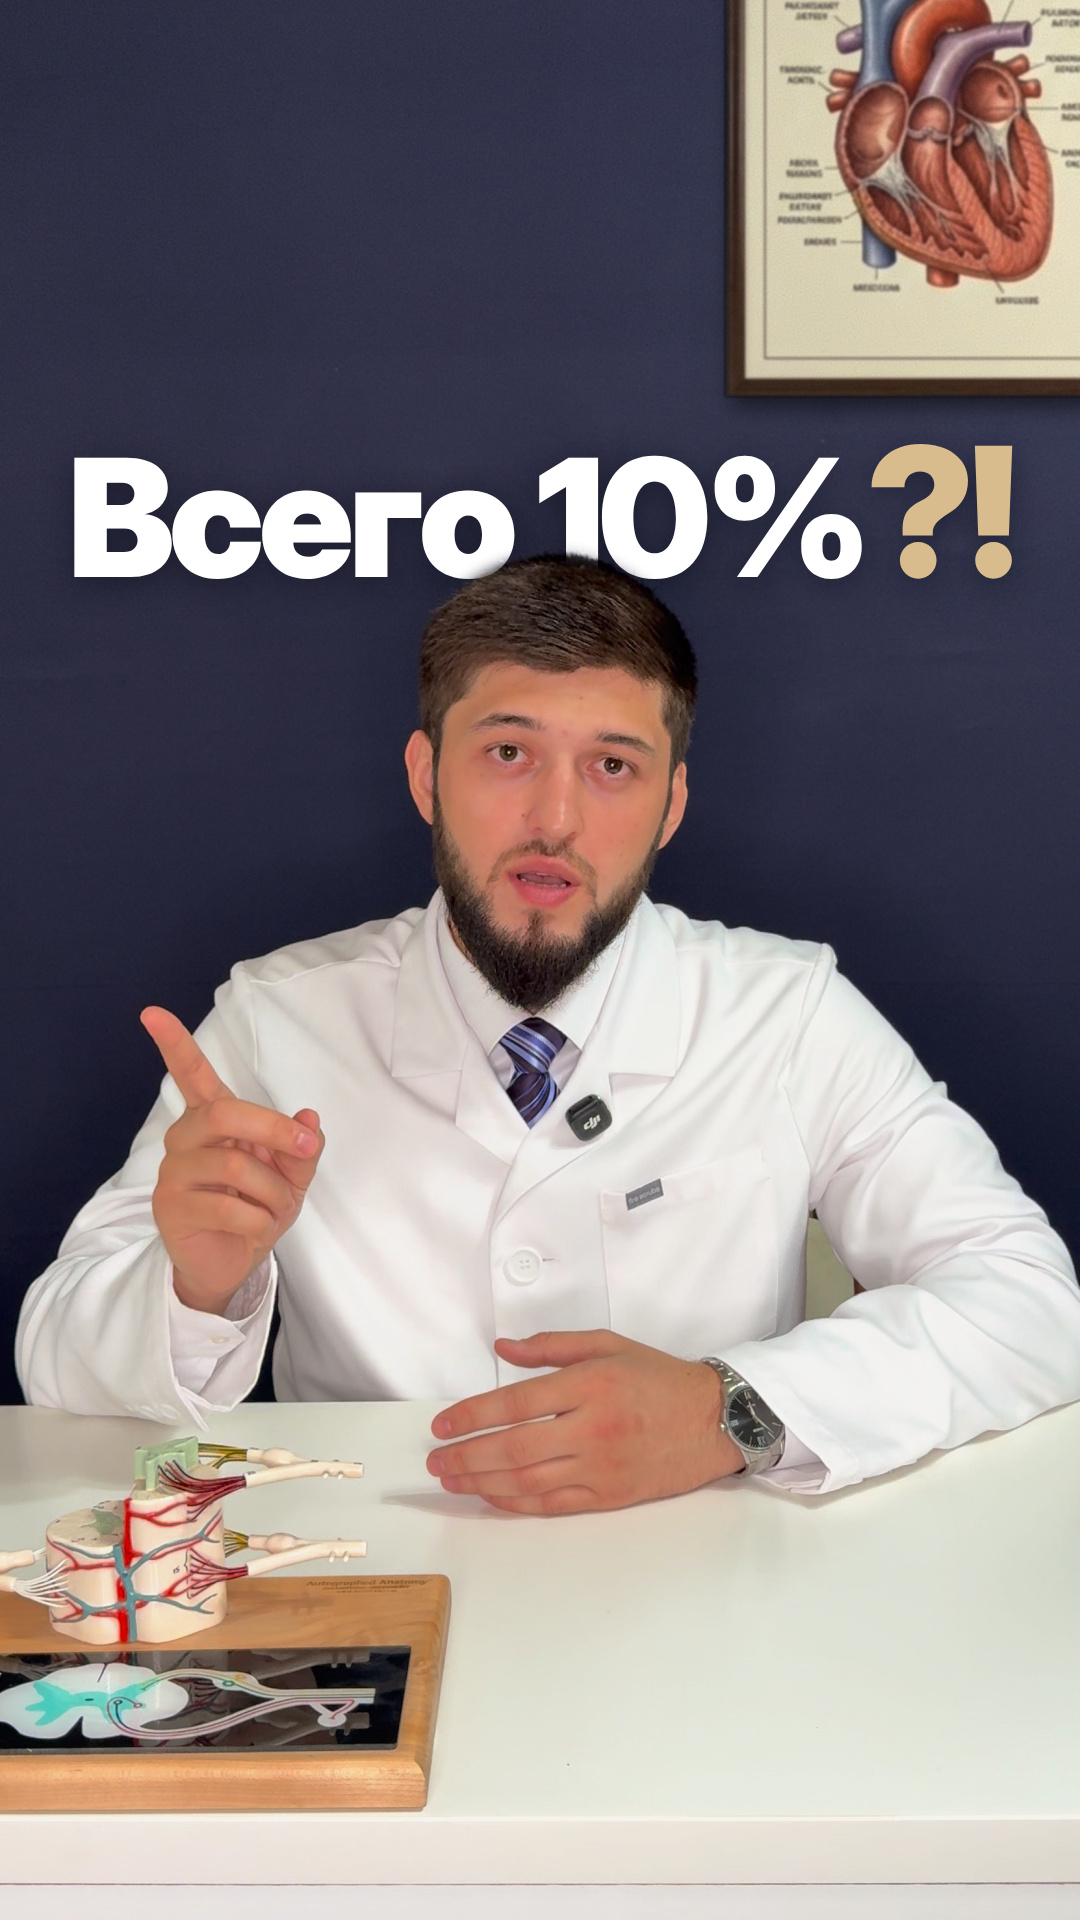
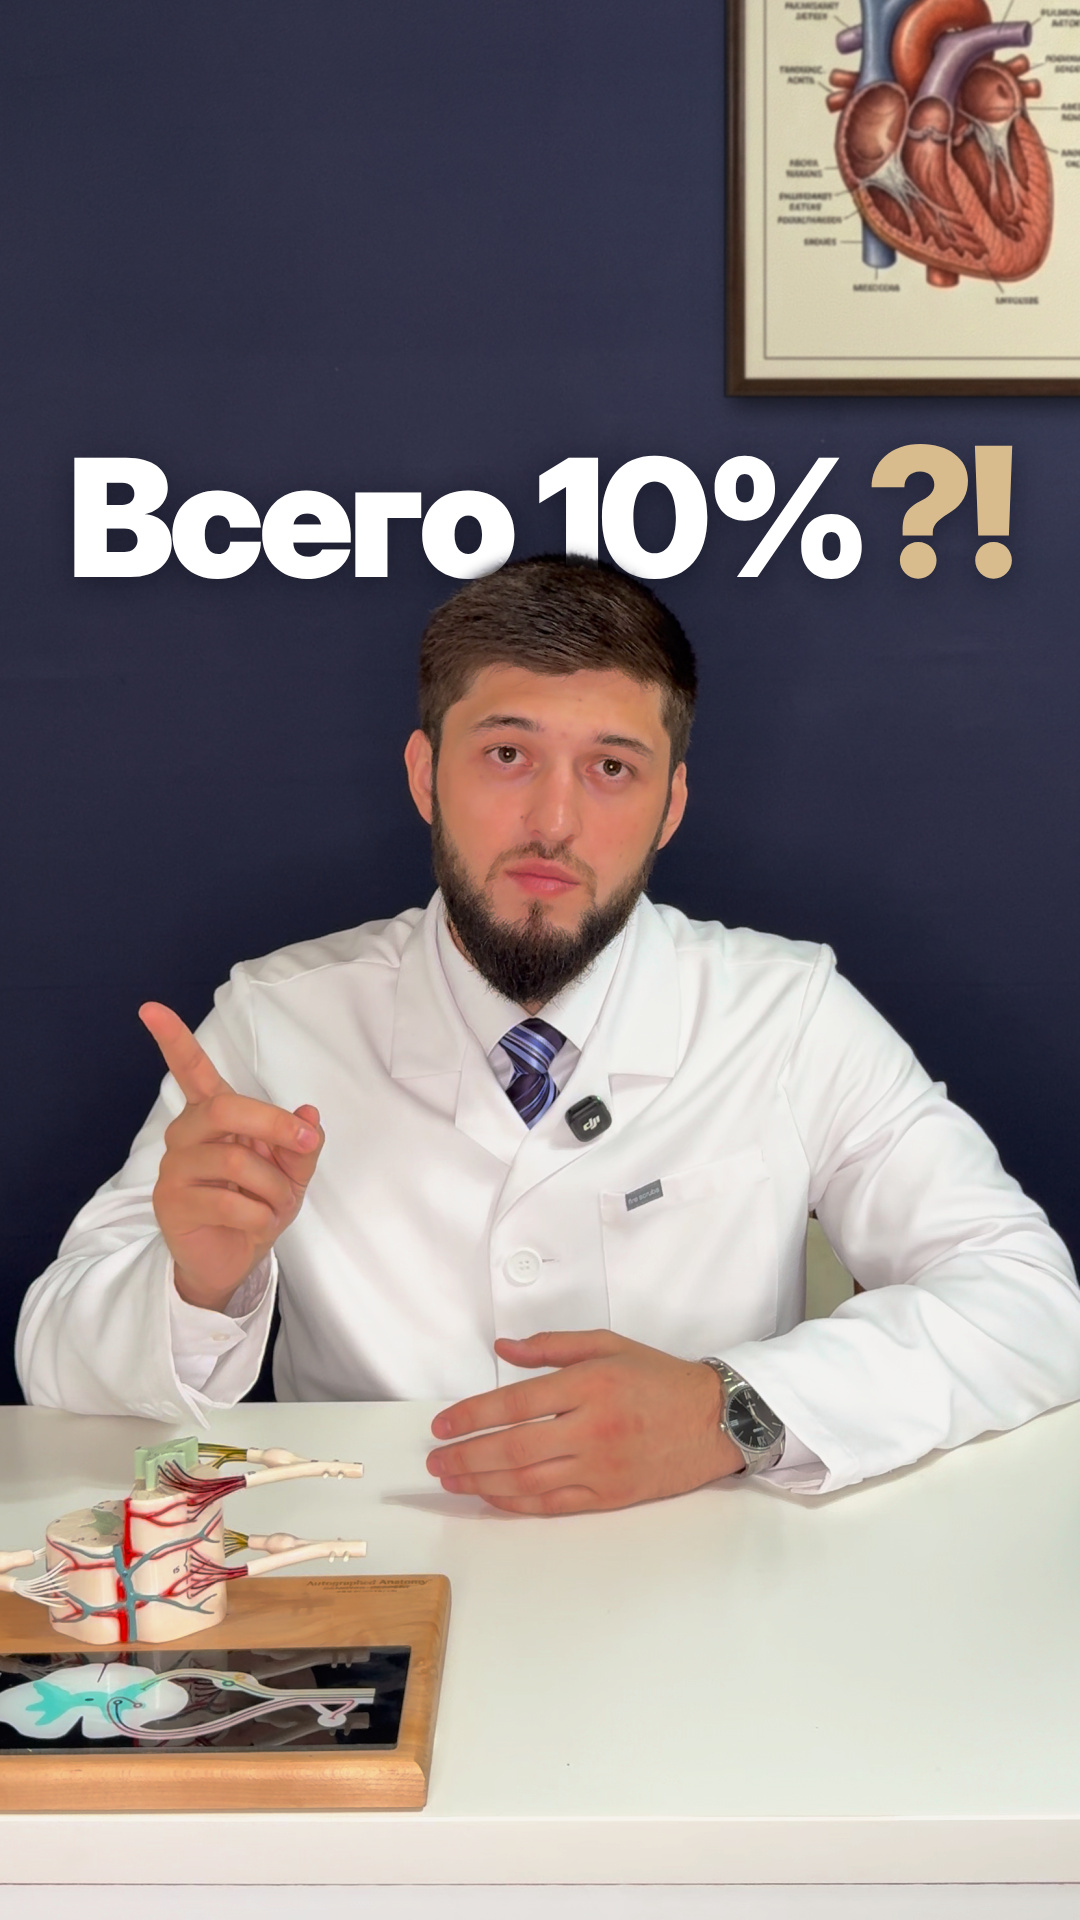
Reel 2 covers 16–20: use the client's frame (99.70 s, mouth closed)
The one-line "Всего 10%?!" covers were built on the 99.80 s frame, where the
mouth is already open. They now use the frame from the client's screenshot,
found by matching face and hand contours against it in the 4K source
(base_frame.py --ref); the matte script takes the frame time from the base
folder. Covers 1–15 keep their original base. The layout QC now treats only
the largest bright component as the poster, so stray hair pixels at the
matte edge no longer count as poster.

Claude-Session: https://claude.ai/code/session_01CUeAeRhq8HGUP8vv7VWuP4

diff --git a/doctor-intro-reels/reel_2/covers/cover.html b/doctor-intro-reels/reel_2/covers/cover.html
@@ -103,24 +103,26 @@ const V = {
   15: { z: "a", front: `
       <div class="t inter" style="left:80px; top:340px; font-weight:600; font-size:96px; color:var(--soft)">Для чего</div>
       <div class="t inter" style="left:74px; top:450px; font-weight:800; font-size:104px; letter-spacing:-3px">этот блог<span class="acc" style="font-size:130px">?</span></div>` },
-  // «Всего 10%?!» в одну строку. data-w — ширина строки (кегль подбирается), data-center — по центру.
-  16: { z: "c", person: true, behind: `
+  // «Всего 10%?!» в одну строку, кадр со скриншота заказчика (base2: 99,70 с, рот закрыт).
+  // data-w — ширина строки (кегль подбирается), data-center — по центру.
+  16: { z: "c", base: "base2", person: true, behind: `
       <div class="t inter" data-w="944" data-center style="top:421px; font-weight:900; font-size:170px; letter-spacing:-.035em">Всего 10%<span class="acc" style="font-size:1.1em">?!</span></div>` },
-  17: { z: "b", front: `
+  17: { z: "b", base: "base2", front: `
       <div class="t unb" data-w="944" data-center style="top:438px; font-weight:900; font-size:110px; letter-spacing:-.02em">Всего 10%<span class="acc">?!</span></div>` },
-  18: { z: "b", person: true, behind: `
+  18: { z: "b", base: "base2", person: true, behind: `
       <div class="t osw" data-w="944" data-center style="top:432px; font-weight:700; font-size:180px; letter-spacing:.01em">ВСЕГО 10%<span class="coral" style="font-size:1.06em">?!</span></div>` },
-  19: { z: "a", front: `
+  19: { z: "a", base: "base2", front: `
       <div class="t play" data-w="580" style="left:72px; top:300px; font-weight:900; font-size:200px"><span style="font-size:.46em; font-style:italic; font-weight:400; color:var(--soft)">Всего&nbsp;</span>10%<span class="acc" style="font-style:italic; font-weight:700; font-size:1.08em">?!</span></div>` },
-  20: { z: "c", front: `
+  20: { z: "c", base: "base2", front: `
       <div class="t mont" data-w="800" data-center style="top:398px; font-weight:900; font-size:110px; letter-spacing:-.02em">Всего <span class="mark">10%</span><span style="font-size:1.1em">?!</span></div>` },
 };
 window.setVariant = async (n) => {
   const v = V[n];
-  document.getElementById("bg").src = `base/frame_1080_z${Z[v.z]}.png`;
+  const dir = v.base || "base";                       // base — кадр 99,80 с (№ 1–15)
+  document.getElementById("bg").src = `${dir}/frame_1080_z${Z[v.z]}.png`;
   const p = document.getElementById("person");
   p.style.display = v.person ? "block" : "none";
-  if (v.person) p.src = `base/person_z${Z[v.z]}.png`;
+  if (v.person) p.src = `${dir}/person_z${Z[v.z]}.png`;
   document.getElementById("behind").innerHTML = v.behind || "";
   document.getElementById("front").innerHTML = (v.shade ? '<div class="shade"></div>' : "") + (v.front || "");
   await Promise.all([...document.images].filter(i => i.style.display !== "none")

diff --git a/doctor-intro-reels/reel_2/covers/scripts/base_frame.py b/doctor-intro-reels/reel_2/covers/scripts/base_frame.py
@@ -1,8 +1,15 @@
 """Чистый кадр для обложки прямо из 4K-исходника (как в ролике: тонмаппинг, картина, цвет).
 
-Ищется самый резкий кадр позы с поднятым пальцем (≈99,6–99,8 с исходника), без ника на фоне.
-Сохраняются: 4K-кадр и фоны обложек 1080×1920 трёх крупностей (1,00 / 1,15 / 1,30), PNG без сжатия.
+Без --ref берётся самый резкий кадр отрезка (так сделана основа base/: 99,58–99,86 с).
+С --ref кадр выбирается по скриншоту заказчика: из отрезка берётся кадр, у которого лицо и рука
+совпадают со скриншотом (сравниваются контуры, поэтому цвет экрана телефона и ник на кадре не мешают).
+Сохраняются: 4K-кадр, фоны обложек 1080×1920 трёх крупностей (1,00 / 1,15 / 1,30) и frame.json.
+
+python3 scripts/base_frame.py                                       # → base/
+python3 scripts/base_frame.py --ref screenshot.jpg --out base2 --from 99.55 --to 99.90
 """
+import argparse
+import json
 import os
 import sys
 
@@ -10,32 +17,65 @@ import cv2
 import numpy as np
 
 HERE = os.path.dirname(os.path.abspath(__file__))
-REEL = os.path.dirname(os.path.dirname(HERE))
-sys.path.insert(0, os.path.join(REEL, "scripts"))
+COVERS = os.path.dirname(HERE)
+sys.path.insert(0, os.path.join(os.path.dirname(COVERS), "scripts"))
 from assemble import FPS, FRONT_LUT, Poster, front_pipe, zoom_crop  # noqa: E402
 
-OUT = os.path.join(os.path.dirname(HERE), "base")
-T0, T1 = 99.58, 99.86
+ap = argparse.ArgumentParser()
+ap.add_argument("--ref", help="скриншот с нужным кадром (поиск по совпадению вместо резкости)")
+ap.add_argument("--out", default="base")
+ap.add_argument("--from", dest="t0", type=float, default=99.58)
+ap.add_argument("--to", dest="t1", type=float, default=99.86)
+args = ap.parse_args()
+OUT = os.path.join(COVERS, args.out)
+os.makedirs(OUT, exist_ok=True)
+
+FACE_HAND = (640, 1320, 140, 920)          # y0, y1, x0, x1 в кадре 1080×1920: лицо и поднятая рука
+
+
+def contours(gray):
+    y0, y1, x0, x1 = FACE_HAND
+    g = gray.astype(np.float32)
+    m = np.hypot(cv2.Sobel(g, cv2.CV_32F, 1, 0), cv2.Sobel(g, cv2.CV_32F, 0, 1))[y0:y1, x0:x1]
+    return (m - m.mean()) / (m.std() + 1e-6)
+
+
+if args.ref:
+    shot = cv2.cvtColor(cv2.imread(args.ref), cv2.COLOR_BGR2GRAY)
+    rows = np.where(shot.mean(1) > 8)[0]                       # убрать чёрные поля скриншота
+    shot = cv2.resize(shot[rows.min():rows.max() + 1], (1080, 1920), interpolation=cv2.INTER_AREA)
+    target = contours(shot)
+
+
+def score(fr):
+    if args.ref:                                                # меньше — лучше
+        small = cv2.LUT(cv2.resize(fr, (1080, 1920), interpolation=cv2.INTER_AREA), FRONT_LUT)
+        return float(((contours(cv2.cvtColor(small, cv2.COLOR_RGB2GRAY)) - target) ** 2).mean())
+    face = cv2.cvtColor(fr[1500:2900, 500:1700], cv2.COLOR_RGB2GRAY)      # лицо и поднятая рука
+    return -cv2.Laplacian(face, cv2.CV_64F).var()
+
 
 ref = front_pipe(40.0, 0.05).get(0)
 poster = Poster(ref)
-pipe = front_pipe(T0, T1 - T0)
+pipe = front_pipe(args.t0, args.t1 - args.t0)
 best = None
 j = 0
 while True:
     fr = pipe.get(j)
     if pipe.j < j:
         break
-    face = cv2.cvtColor(fr[1500:2900, 500:1700], cv2.COLOR_RGB2GRAY)      # лицо и поднятая рука
-    sharp = cv2.Laplacian(face, cv2.CV_64F).var()
     t = (pipe.k0 + j) / FPS
-    print(f"t={t:.3f} резкость {sharp:.1f}")
-    if best is None or sharp > best[0]:
-        best = (sharp, t, fr.copy())
+    s = score(fr)
+    print(f"t={t:.3f} {'расхождение со скриншотом' if args.ref else 'резкость'} {abs(s):.4f}")
+    if best is None or s < best[0]:
+        best = (s, t, fr.copy())
     j += 1
 pipe.close()
-sharp, t, fr = best
+s, t, fr = best
 print(f"выбран кадр t={t:.3f} с")
+json.dump({"t": round(t, 4), "how": f"совпадение со скриншотом {os.path.basename(args.ref)}" if args.ref
+           else f"самый резкий кадр {args.t0}–{args.t1} с"}, open(os.path.join(OUT, "frame.json"), "w"),
+          ensure_ascii=False)
 full = poster.composite(fr, dof=0.0)
 cv2.imwrite(os.path.join(OUT, "frame_4k.png"), cv2.cvtColor(cv2.LUT(full, FRONT_LUT), cv2.COLOR_RGB2BGR))
 cv2.imwrite(os.path.join(OUT, "frame_1080_z1.00.png"), cv2.cvtColor(zoom_crop(full, 1.0, False), cv2.COLOR_RGB2BGR))

diff --git a/doctor-intro-reels/reel_2/covers/scripts/qc_text.py b/doctor-intro-reels/reel_2/covers/scripts/qc_text.py
@@ -11,23 +11,26 @@ import sys
 
 import numpy as np
 from PIL import Image
-from scipy.ndimage import distance_transform_edt
+from scipy.ndimage import distance_transform_edt, label
 
 ROOT = os.path.dirname(os.path.dirname(os.path.abspath(__file__)))
 ZOOM = {"a": "1.00", "b": "1.15", "c": "1.30"}
 NAVY = np.array([38, 42, 72])
 
 html = open(os.path.join(ROOT, "cover.html"), encoding="utf-8").read()
-zoom_of = {int(n): ZOOM[z] for n, z in re.findall(r'\n  (\d+): \{ z: "([abc])"', html)}
+variants = re.findall(r'\n  (\d+): \{ z: "([abc])"(?:, base: "(\w+)")?', html)
+zoom_of = {int(n): (b or "base", ZOOM[z]) for n, z, b in variants}       # номер → (папка кадра, крупность)
 
 maps = {}
-for z in set(zoom_of.values()):
-    fr = np.asarray(Image.open(os.path.join(ROOT, "base", f"frame_1080_z{z}.png")).convert("RGB")).astype(int)
-    person = np.asarray(Image.open(os.path.join(ROOT, "base", f"alpha_z{z}.png"))) > 128
+for base, z in set(zoom_of.values()):
+    fr = np.asarray(Image.open(os.path.join(ROOT, base, f"frame_1080_z{z}.png")).convert("RGB")).astype(int)
+    person = np.asarray(Image.open(os.path.join(ROOT, base, f"alpha_z{z}.png"))) > 128
     poster = (np.abs(fr - NAVY).sum(2) > 90) & ~person
     poster[900:] = False
     poster[:, :540] = False
-    maps[z] = (person, distance_transform_edt(~person), distance_transform_edt(~poster))
+    lab, _ = label(poster)
+    poster = lab == np.bincount(lab.ravel())[1:].argmax() + 1        # только картина, без пикселей волос по краю маски
+    maps[base, z] = (person, distance_transform_edt(~person), distance_transform_edt(~poster))
 
 folder = sys.argv[1]
 only = [int(x) for x in sys.argv[2:]]

diff --git a/doctor-intro-reels/reel_2/covers/scripts/matte.py b/doctor-intro-reels/reel_2/covers/scripts/matte.py
@@ -1,9 +1,14 @@
 """Маска фигуры врача на кадре обложки (RVM ResNet50) — для текста «за спиной».
 
 Нейросеть прогоняется по полсекунды кадров до выбранного (рекуррентная модель уточняет
-края по движению), маска берётся с кадра t = 99,80 с. Для трёх крупностей кадра.
-Результат — person_z*.png: фон обложки с маской в альфа-канале (слой поверх текста).
+края по движению), маска берётся с кадра из <папка>/frame.json (его выбирает base_frame.py).
+Для трёх крупностей кадра. Результат — person_z*.png: фон обложки с маской в альфа-канале
+(слой поверх текста).
+
+python3 scripts/matte.py [--out base2]
 """
+import argparse
+import json
 import os
 import sys
 
@@ -17,8 +22,11 @@ sys.path.insert(0, os.path.join(os.path.dirname(REEL), "side_angle_2", "scripts"
 from assemble import FPS, Poster, front_pipe, zoom_crop  # noqa: E402
 import process as P  # noqa: E402  (Matter: RVM + guided filter)
 
-OUT = os.path.join(os.path.dirname(HERE), "base")
-T_START, T_PICK = 99.30, 99.80
+ap = argparse.ArgumentParser()
+ap.add_argument("--out", default="base")
+OUT = os.path.join(os.path.dirname(HERE), ap.parse_args().out)
+T_PICK = json.load(open(os.path.join(OUT, "frame.json")))["t"]
+T_START = T_PICK - 0.5
 
 ref = front_pipe(40.0, 0.05).get(0)
 poster = Poster(ref)

diff --git a/doctor-intro-reels/reel_2/covers/README.md b/doctor-intro-reels/reel_2/covers/README.md
@@ -4,8 +4,12 @@
 № 16–20 — вторая серия: «Всего 10%?!» в одну строку. Обзоры каждой серии: `output/_обзор_1-15_…`,
 `output/_обзор_16-20_…` — обложка целиком (9:16) и как она выглядит в сетке профиля (3:4).
 
-- **Кадр** взят прямо из 4K-исходника (момент 1:39,8 — поднятый палец, жест «вопрос»), обработка
-  та же, что в ролике (HDR→SDR, картина сердца на стене). Ника/водяного знака на обложках нет.
+- **Кадр** взят прямо из 4K-исходника, обработка та же, что в ролике (HDR→SDR, картина сердца
+  на стене). Ника/водяного знака на обложках нет.
+  - № 16–20 — кадр со скриншота заказчика (`reference/screenshot_cover_frame.jpg`): 99,70 с
+    исходника, поднятый палец, **рот закрыт**. Найден сравнением контуров лица и руки со
+    скриншотом (`base_frame.py --ref`), основа — `base2/`.
+  - № 1–15 — кадр 99,80 с (на 6 кадров позже, рот уже приоткрыт), основа — `base/`.
 - **Сетка профиля** показывает только центр обложки 3:4 (y 240–1680). Весь текст стоит внутри
   этой зоны (верхняя строка — не выше y 262), поэтому виден и в ленте Reels, и в сетке;
   лицо и картину текст не перекрывает.
@@ -41,7 +45,8 @@
 
 ```bash
 python3 scripts/base_frame.py                  # кадр из 4K-исходника → base/frame_*.png (нужен ../../sources)
-python3 scripts/matte.py                       # маска фигуры (RVM) → base/person_z*.png
+python3 scripts/base_frame.py --ref reference/screenshot_cover_frame.jpg --out base2 --from 99.55 --to 99.90
+python3 scripts/matte.py [--out base2]         # маска фигуры (RVM) → person_z*.png
 NODE_PATH=$(npm root -g) node scripts/render_covers.js [номера]   # cover.html → output/cover_NN.png
 python3 scripts/export.py                      # JPG + обзоры
 NODE_PATH=$(npm root -g) node scripts/measure_text.js <папка> [номера] && python3 scripts/qc_text.py <папка>  # проверка
